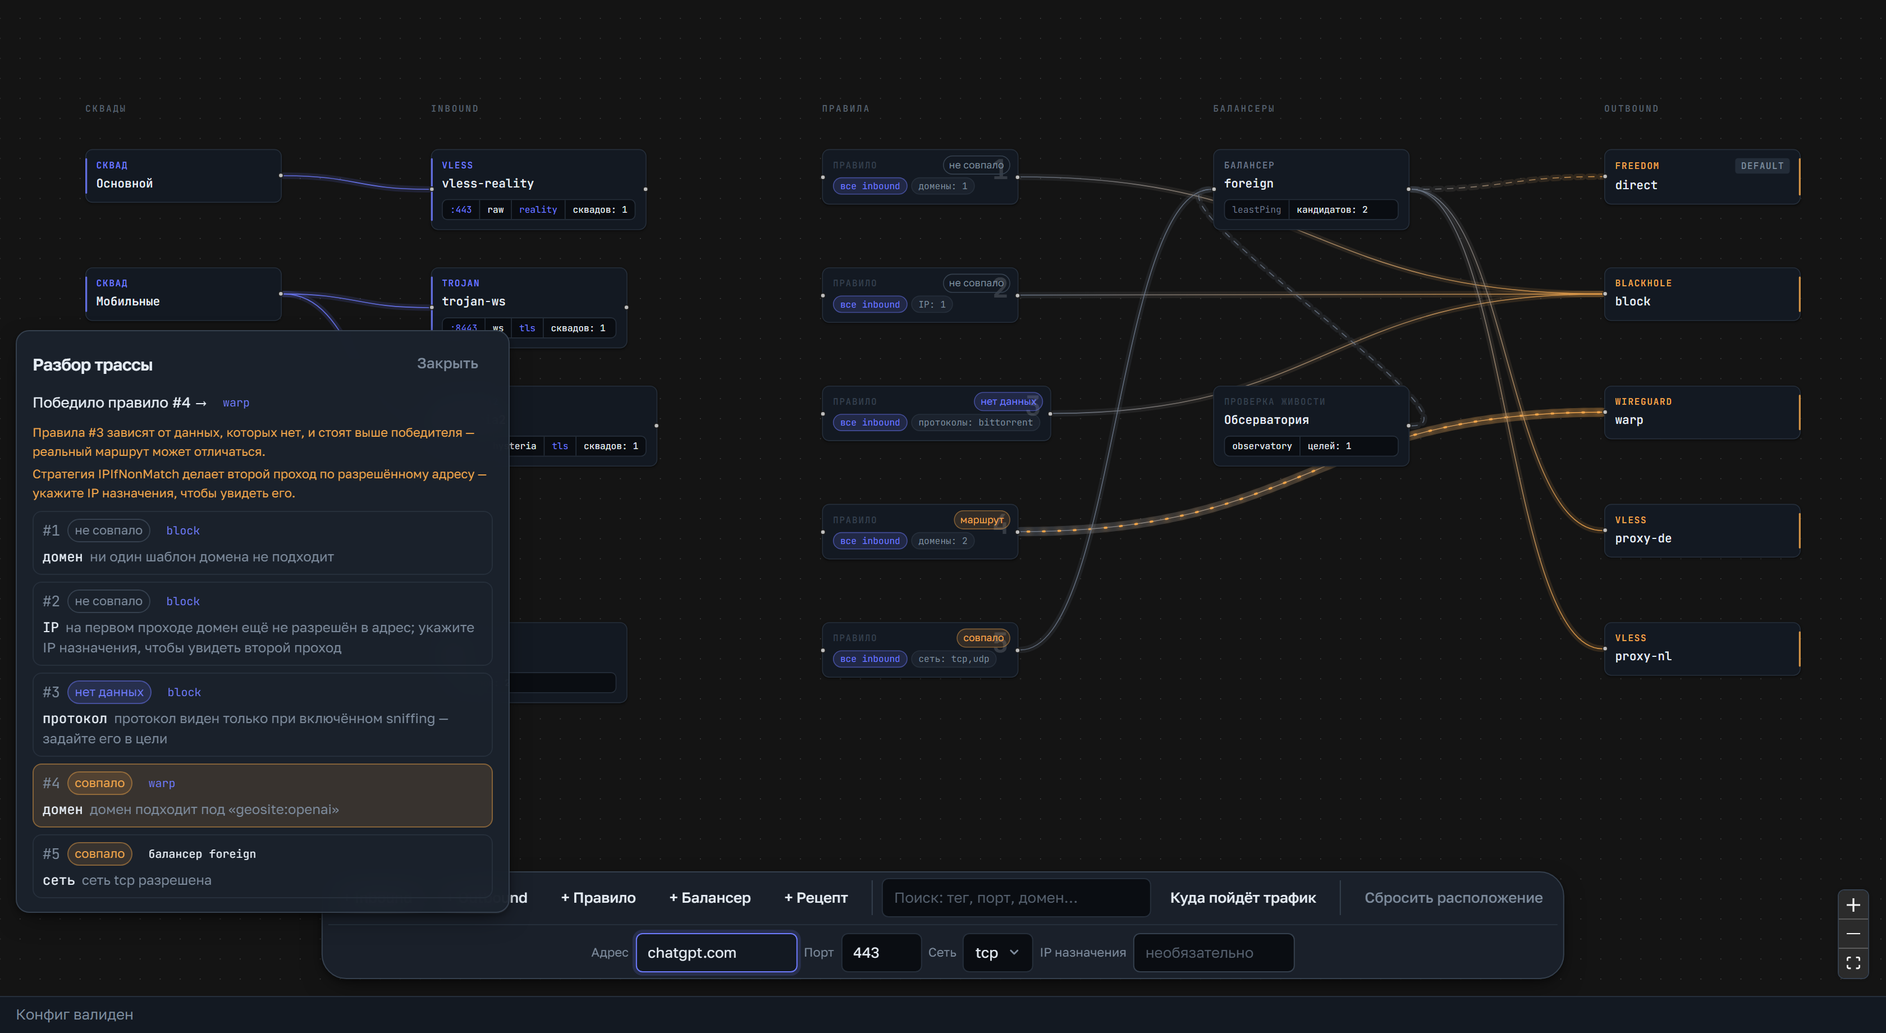
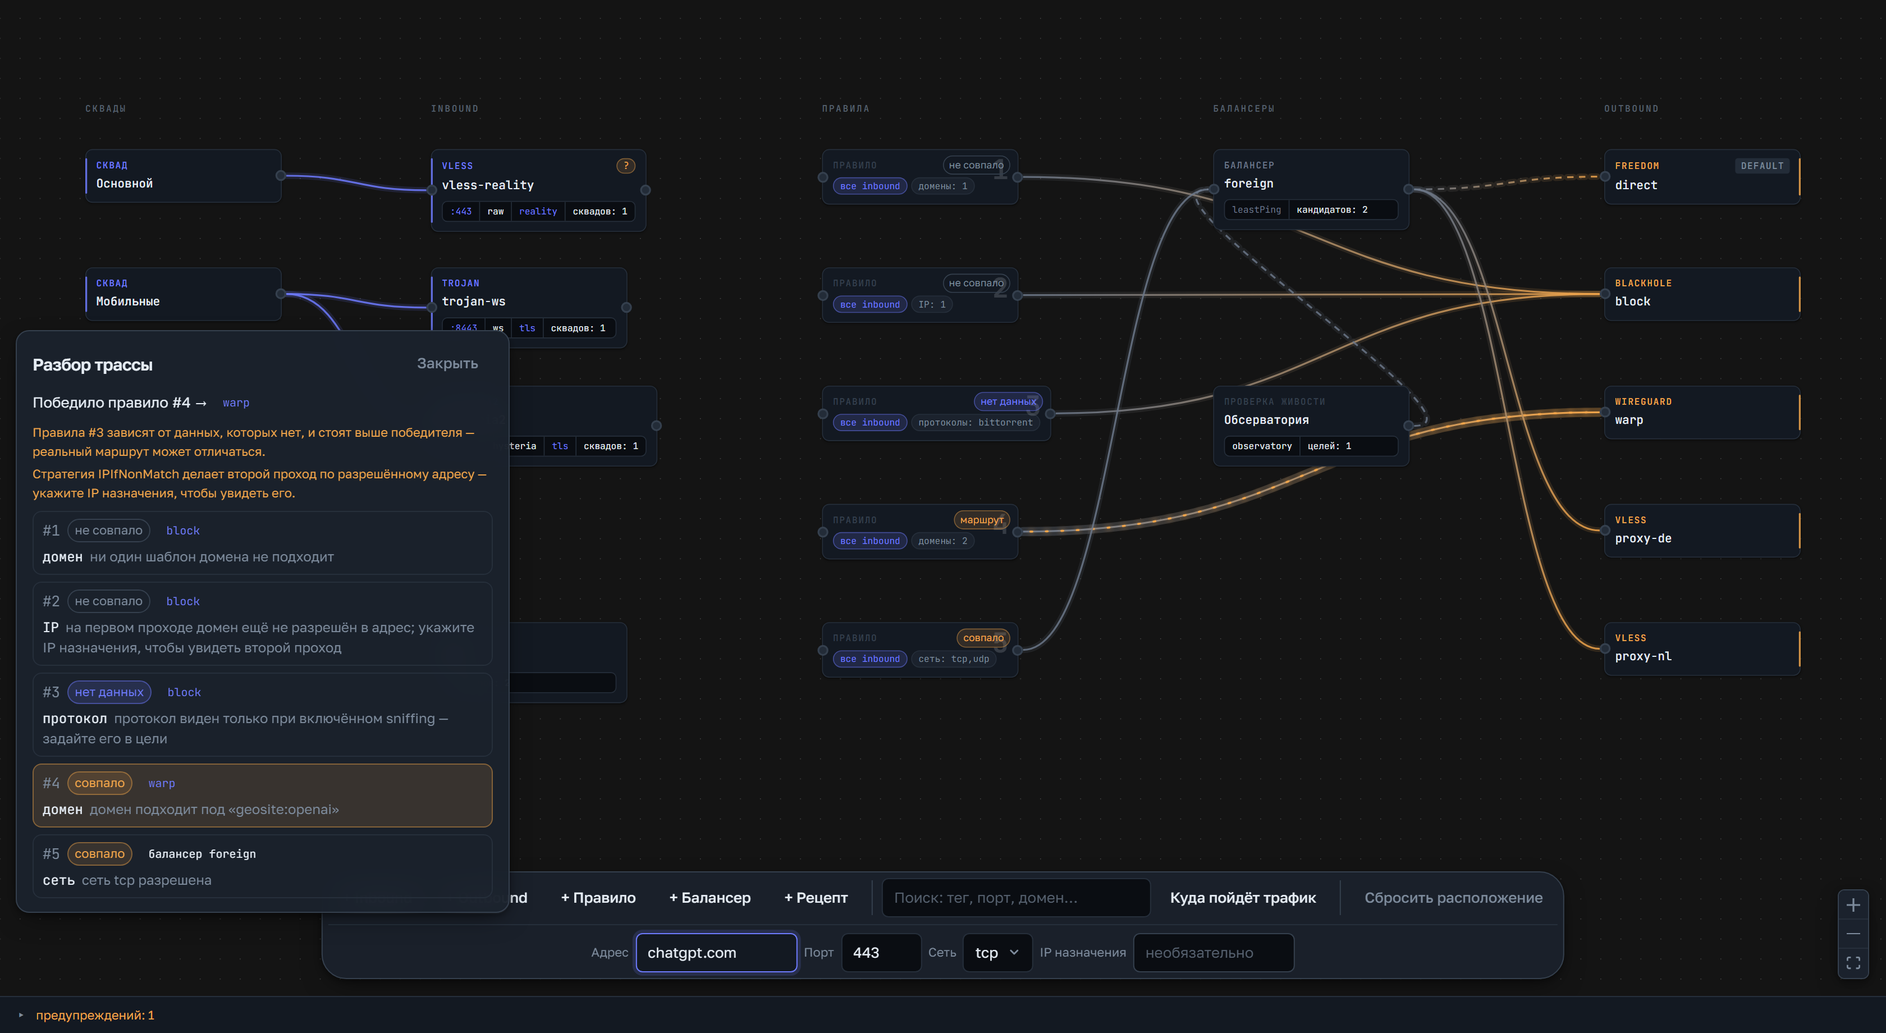
feat(frontend): крупные гнёзда коммутации и подсветка валидных целей
Из issue #43: в гнездо тяжело попасть на 2K-экране, а при наведении на
карточку «точки съезжают».

Корень первого — порядок импорта CSS. `@xyflow/react/dist/style.css`
импортировался внутри TopologyView, то есть позже tokens.css, и при равной
специфичности побеждал: базовое правило `.react-flow__handle` из дизайн-
системы не применялось никогда. Гнёзда были 6px вместо задуманных 12,
кабели 1px вместо 2. Импорт перенесён в main.tsx перед tokens.css.

Поверх — невидимая хит-зона, которая делится на зум холста и остаётся
постоянной на экране при любом масштабе. Смещена наружу от карточки, иначе
клик по её краю начинал бы тянуть кабель вместо выбора узла.

Второе — подъём карточки на ховере: React Flow не пересчитывает концы
кабелей при наведении, поэтому сдвиг узла отстёгивал гнездо от кабеля.
Подъём убран, отклик даётся цветом и тенью.

Заодно: `left/right: -7px` складывались с собственным центрированием
React Flow v12 и выкидывали гнездо наружу, а `transform: scale()` на
ховере затирал его перенос — масштаб теперь пристёгивается через --h-scale.

Пока тянется кабель, PatchbayState кладёт на холст data-accepts со списком
колонок, куда можно воткнуть; набор считается по isValidConnection, так что
правила коммутации остаются в одном месте. Подсвечиваются и карточки, и
гнёзда.

Скриншоты README перегенерированы: гнёзда и кабели изменились визуально.

Claude-Session: https://claude.ai/code/session_01GY78ENudgznnwMXNkiac4s

diff --git a/frontend/src/shared/ui/tokens.css b/frontend/src/shared/ui/tokens.css
@@ -1011,7 +1011,14 @@ p { margin: 0 0 10px; }
   from { opacity: 0; transform: translateY(8px) scale(0.985); }
   to { opacity: 1; transform: none; }
 }
-.fnode:hover { border-color: var(--rail-hi); background: var(--panel-2); transform: translateY(-1px); }
+/* Подъём карточки на ховере убран намеренно: React Flow считает концы кабелей
+   по снятым координатам и на ховер их не пересчитывает, поэтому любой сдвиг
+   узла отстёгивает гнездо от кабеля. Отклик даём цветом и тенью. */
+.fnode:hover {
+  border-color: var(--rail-hi);
+  background: var(--panel-2);
+  box-shadow: 0 4px 12px -4px rgb(0 0 0 / 0.5), var(--shadow-1);
+}
 .fnode-in { --node-hue: var(--flux); --node-select: var(--flux); }
 .fnode-out { --node-hue: var(--ember); --node-select: var(--ember); }
 .fnode-squad { --node-hue: var(--flux); --node-select: var(--flux); }
@@ -1096,23 +1103,49 @@ p { margin: 0 0 10px; }
 }
 .fnode-cond-all { border-color: var(--flux-line); color: var(--flux); background: var(--flux-soft); }
 
-/* --- Джеки: физические гнёзда коммутации вместо точек по умолчанию --- */
+/* --- Джеки: физические гнёзда коммутации вместо точек по умолчанию ---
+   React Flow сам центрирует гнездо на грани карточки через translate(±50%,-50%).
+   Собственный сдвиг задавать нельзя — он сложится с этим и выкинет гнездо наружу,
+   поэтому масштаб пристёгивается к переносу через --h-tx, а не заменяет его. */
 .react-flow__handle {
   width: 12px;
   height: 12px;
   border: 2px solid var(--rail-hi);
   background: var(--panel-3);
   border-radius: 50%;
+  transform: translate(var(--h-tx), -50%) scale(var(--h-scale, 1));
   transition: border-color var(--dur) var(--ease), background var(--dur) var(--ease),
     transform var(--dur) var(--ease), box-shadow var(--dur) var(--ease);
 }
-.react-flow__handle-left { left: -7px; }
-.react-flow__handle-right { right: -7px; }
+.react-flow__handle-left { --h-tx: -50%; }
+.react-flow__handle-right { --h-tx: 50%; }
+
+/* Хит-зона больше самого джека и не зависит от масштаба холста: делим на зум,
+   который PatchbayState кладёт в --rf-zoom. Иначе на отдалении в гнездо
+   диаметром пять экранных пикселей нечем попасть. Потолок держит зону в
+   пределах своей строки: соседние узлы стоят через ROW_H = 130px.
+
+   Смещена наружу от карточки: центрированная зона накрыла бы её правый край,
+   и клик по карточке начинал бы тянуть кабель вместо выбора узла. Целятся
+   всё равно снаружи, поэтому внутрь зона заходит на четверть своего размера
+   вместо половины, а наружу — на три четверти. */
+.react-flow__handle.connectable::after {
+  content: '';
+  position: absolute;
+  left: 50%;
+  top: 50%;
+  width: min(72px, 28px / var(--rf-zoom, 1));
+  height: min(72px, 28px / var(--rf-zoom, 1));
+  transform: translate(calc(-50% + var(--hit-bias, 0%)), -50%);
+  border-radius: 50%;
+}
+.react-flow__handle-left.connectable::after { --hit-bias: -25%; }
+.react-flow__handle-right.connectable::after { --hit-bias: 25%; }
 .fnode:hover .react-flow__handle { border-color: var(--node-hue); }
 .react-flow__handle:hover {
   background: var(--node-hue);
   border-color: var(--node-hue);
-  transform: scale(1.25);
+  --h-scale: 1.25;
 }
 /* Во время протяжки кабеля: совместимые гнёзда светятся, остальные гаснут */
 .react-flow__handle.connectingfrom {
@@ -1123,10 +1156,26 @@ p { margin: 0 0 10px; }
 .react-flow__handle.valid {
   background: var(--live);
   border-color: var(--live);
-  transform: scale(1.35);
+  --h-scale: 1.35;
   box-shadow: 0 0 0 6px color-mix(in srgb, var(--live) 20%, transparent);
 }
 .react-flow__handle.connectingto:not(.valid) { opacity: 0.25; }
+
+/* Куда можно воткнуть тянущийся кабель. Набор колонок в data-accepts считает
+   PatchbayState по isValidConnection — здесь только оформление. Цель видно с
+   другого конца холста, а не только когда курсор уже над гнездом. */
+[data-accepts~='rule'] .react-flow__node[data-id^='rule:'] .fnode,
+[data-accepts~='out'] .react-flow__node[data-id^='out:'] .fnode,
+[data-accepts~='bal'] .react-flow__node[data-id^='bal:'] .fnode {
+  border-color: color-mix(in srgb, var(--live) 55%, var(--rail));
+  box-shadow: var(--shadow-1), 0 0 0 1px color-mix(in srgb, var(--live) 30%, transparent);
+}
+[data-accepts~='rule'] .react-flow__node[data-id^='rule:'] .react-flow__handle-left,
+[data-accepts~='out'] .react-flow__node[data-id^='out:'] .react-flow__handle-left,
+[data-accepts~='bal'] .react-flow__node[data-id^='bal:'] .react-flow__handle-left {
+  border-color: var(--live);
+  background: color-mix(in srgb, var(--live) 30%, var(--panel-3));
+}
 
 /* --- Кабели ---
    Три слоя: гало-подложка (вес на тёмном фоне), сплошной кабель-градиент и —

diff --git a/frontend/e2e/patchbay.spec.ts b/frontend/e2e/patchbay.spec.ts
@@ -1,0 +1,100 @@
+import { expect, test } from '@playwright/test'
+import { UUID, mockApi } from './mocks'
+
+async function openGraph(page: import('@playwright/test').Page) {
+  await mockApi(page)
+  await page.goto(`/profiles/${UUID}`)
+  await page.locator('.react-flow__node[data-id="in:vless-in"]').waitFor()
+  // Входная волна двигает карточки — ждём, пока она отыграет и якоря пересчитаются
+  await page.waitForTimeout(900)
+}
+
+const geometry = (node: import('@playwright/test').Locator) =>
+  node.evaluate((el) => {
+    const card = el.querySelector('.fnode') as HTMLElement
+    const handle = el.querySelector('.react-flow__handle-right') as HTMLElement
+    const c = card.getBoundingClientRect()
+    const h = handle.getBoundingClientRect()
+    return { cx: h.left + h.width / 2, cy: h.top + h.height / 2, size: h.width, cardRight: c.right }
+  })
+
+/**
+ * Жалоба из issue #43: «при наведении на карточку точки съезжают». Карточка
+ * поднималась на 1px, гнездо ехало с ней, а кабель оставался на снятых React
+ * Flow координатах — гнездо отстёгивалось от кабеля.
+ */
+test('гнездо не двигается, когда курсор наводится на карточку', async ({ page }) => {
+  await openGraph(page)
+  const node = page.locator('.react-flow__node[data-id="in:vless-in"]')
+
+  const rest = await geometry(node)
+  await node.hover()
+  await page.waitForTimeout(350)
+  const hovered = await geometry(node)
+
+  expect(hovered.cx).toBeCloseTo(rest.cx, 1)
+  expect(hovered.cy).toBeCloseTo(rest.cy, 1)
+})
+
+test('гнездо отцентровано на грани карточки, а не висит снаружи', async ({ page }) => {
+  await openGraph(page)
+  const g = await geometry(page.locator('.react-flow__node[data-id="in:vless-in"]'))
+  // Центр гнезда на грани карточки с точностью до её рамки
+  expect(Math.abs(g.cx - g.cardRight)).toBeLessThanOrEqual(2)
+})
+
+/**
+ * Хит-зона крупнее самого джека и не сжимается вместе с холстом: на 2K-экране
+ * в гнездо диаметром пять пикселей попасть нечем (issue #43).
+ */
+test('кабель цепляется, даже когда мышь мимо самого джека', async ({ page }) => {
+  await openGraph(page)
+  const source = page.locator('.react-flow__node[data-id="in:vless-in"] .react-flow__handle-right')
+  const box = await source.boundingBox()
+  if (!box) throw new Error('нет гнезда')
+
+  // Промах на 8px вниз от центра — заметно дальше радиуса видимого джека
+  await page.mouse.move(box.x + box.width / 2, box.y + box.height / 2 + 8)
+  await page.mouse.down()
+  await page.mouse.move(box.x + 140, box.y + 40, { steps: 8 })
+
+  await expect(page.locator('.react-flow__connection')).toHaveCount(1)
+  await page.mouse.up()
+})
+
+/**
+ * Обратная сторона крупной хит-зоны: центрированная накрыла бы правый край
+ * карточки, и клик по ней тянул бы кабель вместо выбора узла. Зона смещена
+ * наружу — карточка остаётся кликабельной до самого края.
+ */
+test('клик у правого края карточки выбирает узел, а не начинает кабель', async ({ page }) => {
+  await openGraph(page)
+  const card = page.locator('.react-flow__node[data-id="in:vless-in"] .fnode')
+  const box = await card.boundingBox()
+  if (!box) throw new Error('нет карточки')
+
+  await page.mouse.click(box.x + box.width - 6, box.y + box.height / 2)
+
+  await expect(page.locator('.wb-inspector')).toBeVisible()
+  await expect(page.locator('.react-flow__connection')).toHaveCount(0)
+})
+
+test('пока тянут кабель, валидные цели подсвечены, а невалидные — нет', async ({ page }) => {
+  await openGraph(page)
+  const flow = page.locator('.react-flow')
+  await expect(flow).not.toHaveAttribute('data-accepts', /./)
+
+  const source = page.locator('.react-flow__node[data-id="in:vless-in"] .react-flow__handle-right')
+  const box = await source.boundingBox()
+  if (!box) throw new Error('нет гнезда')
+  await page.mouse.move(box.x + box.width / 2, box.y + box.height / 2)
+  await page.mouse.down()
+  await page.mouse.move(box.x + 160, box.y + 60, { steps: 8 })
+
+  // Из inbound кабель идёт в правило или в outbound, но не в балансер
+  const accepts = await flow.getAttribute('data-accepts')
+  expect(accepts?.split(' ').sort()).toEqual(['out', 'rule'])
+
+  await page.mouse.up()
+  await expect(flow).not.toHaveAttribute('data-accepts', /./)
+})

diff --git a/frontend/src/features/topology/TopologyView.tsx b/frontend/src/features/topology/TopologyView.tsx
@@ -1,10 +1,9 @@
 import { useCallback, useEffect, useMemo, useRef, useState, type ReactNode } from 'react'
 import {
-  applyEdgeChanges, applyNodeChanges, Background, Controls, Panel, ReactFlow, useReactFlow,
-  useUpdateNodeInternals, ViewportPortal,
+  applyEdgeChanges, applyNodeChanges, Background, Controls, Panel, ReactFlow, useConnection,
+  useReactFlow, useStore, useUpdateNodeInternals, ViewportPortal,
   type Edge, type EdgeChange, type NodeChange, type Connection, type Node,
 } from '@xyflow/react'
-import '@xyflow/react/dist/style.css'
 import { expandSelector, type TraceResult, type XrayConfig } from '../../entities/xray'
 import { buildGraph, COLUMN_X, layoutColumns } from '../../entities/graph/buildGraph'
 import type { GraphContext, IssueCount } from '../../entities/graph/types'
@@ -137,6 +136,46 @@ function FocusNode({ request }: { request?: { nodeId: string; nonce: number } | 
       duration: 320,
     })
   }, [request, getNode, setCenter])
+
+  return null
+}
+
+/** Колонки, куда вообще можно воткнуть кабель. Ключ — префикс id узла. */
+const TARGET_KINDS = ['rule', 'out', 'bal'] as const
+
+/**
+ * Гнёзда живут внутри масштабируемого вьюпорта: на отдалении 12px-джек
+ * превращается в пять экранных пикселей, и попасть в него мышью нечем. Кладём
+ * зум в CSS-переменную — хит-зона делится на него и остаётся постоянной на
+ * экране, каким бы ни был масштаб.
+ *
+ * Второй атрибут говорит, куда сейчас можно воткнуть тянущийся кабель. Набор
+ * колонок выводится из isValidConnection, а не переписывается в CSS: правила
+ * коммутации должны жить в одном месте. Подсветка тогда — чистый CSS, без
+ * перерисовки узлов на каждое движение мыши.
+ */
+function PatchbayState() {
+  const dom = useStore((s) => s.domNode)
+  const zoom = useStore((s) => s.transform[2])
+  const connection = useConnection()
+  const from = connection.inProgress ? (connection.fromHandle?.nodeId ?? null) : null
+
+  const accepts = useMemo(() => {
+    if (from === null) return null
+    return TARGET_KINDS.filter((kind) =>
+      isValidConnection({ source: from, target: `${kind}:probe` }),
+    ).join(' ')
+  }, [from])
+
+  useEffect(() => {
+    dom?.style.setProperty('--rf-zoom', String(zoom))
+  }, [dom, zoom])
+
+  useEffect(() => {
+    if (!dom) return
+    if (accepts === null) delete dom.dataset.accepts
+    else dom.dataset.accepts = accepts
+  }, [dom, accepts])
 
   return null
 }
@@ -384,6 +423,7 @@ export function TopologyView({
       <ViewportShift shift={selectedId === null ? 0 : inspectorWidth(window.innerWidth)} />
       <FocusNode request={focus} />
       <RemeasureOnEnter />
+      <PatchbayState />
 
       {/* Подписи колонок живут в координатах канваса и едут вместе с узлами */}
       <ViewportPortal>

diff --git a/frontend/src/main.tsx b/frontend/src/main.tsx
@@ -10,6 +10,11 @@ import '@fontsource/jetbrains-mono/cyrillic-600.css'
 import '@fontsource/jetbrains-mono/400.css'
 import '@fontsource/jetbrains-mono/500.css'
 import '@fontsource/jetbrains-mono/600.css'
+// Базовая таблица React Flow идёт ПЕРЕД tokens.css: у правил вида
+// `.react-flow__handle` одинаковая специфичность, и побеждает та, что позже.
+// Пока она импортировалась внутри TopologyView, дизайн-система проигрывала —
+// гнёзда оставались дефолтными 6px вместо задуманных 12, кабели 1px вместо 2.
+import '@xyflow/react/dist/style.css'
 import './shared/ui/tokens.css'
 import { StrictMode } from 'react'
 import { createRoot } from 'react-dom/client'
